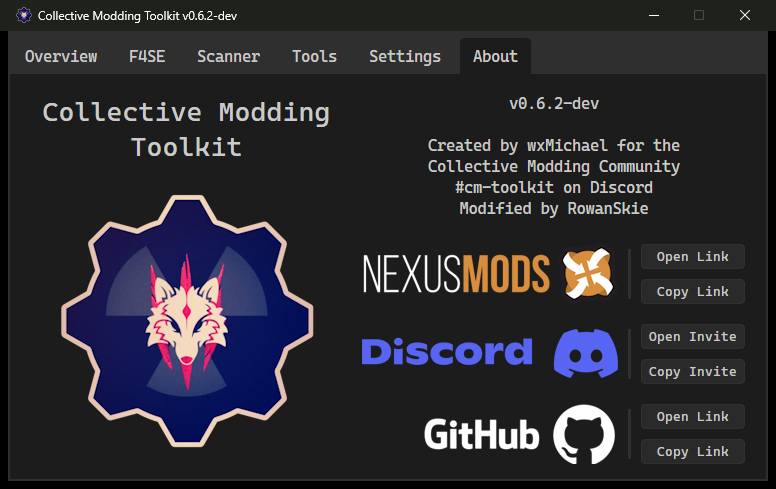
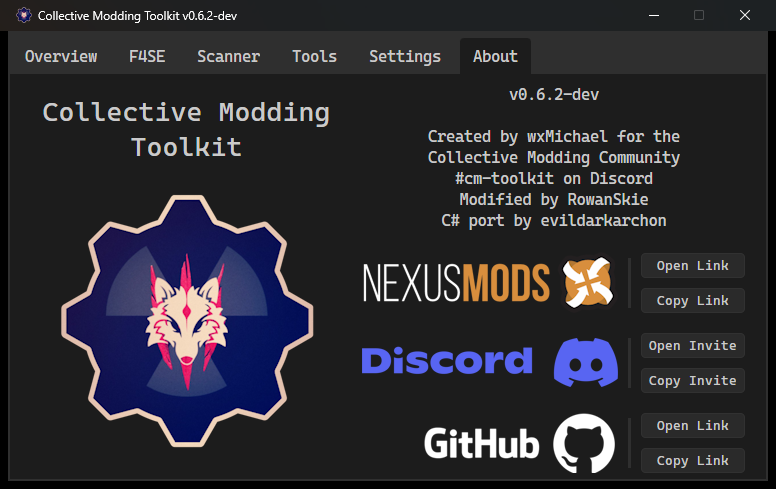
feat(about): credit the C# port (#69)
Add "C# port by evildarkarchon" under "Modified by RowanSkie", which
stays. This deliberately changes ABOUT-1. It is recorded as Deviation 69
on the about-tab scenario (golden.port.json) and on the hand-written
layout tests.

The seventh line makes the right-hand column 407 px, Tk's page height,
but the port's tab page is 404 px. So the gap under the credits shrinks
from 10 to 7 px, and the column fills the page exactly instead of the
GitHub row hanging over the bottom edge. A new test pins the fit and the
link rows' spacing.

ADR-0006, the glossary, parity/README.md and the Deviation docstrings
now say that a deliberate non-bug change uses the same mechanism under
its own issue number. The about/ screenshot pair is re-captured at
100 % DPI; tk.png changed only because it was re-captured.

diff --git a/dotnet/tests/CMToolkit.Tests/App/AboutTabTests.cs b/dotnet/tests/CMToolkit.Tests/App/AboutTabTests.cs
@@ -6,6 +6,7 @@ using Avalonia.Threading;
 using CMToolkit.App.Runtime;
 using CMToolkit.App.Tabs;
 using CMToolkit.App.Views;
+using CMToolkit.Tests.Parity;
 using CMToolkit.Tests.Support;
 using Microsoft.Extensions.Time.Testing;
 
@@ -47,17 +48,18 @@ public sealed class AboutTabTests
     }
 
     [AvaloniaFact]
-    [Trait("Parity", "ABOUT-1")]
+    [Trait("Parity", "ABOUT-1"), Deviation(69, "Deliberate, not a bug fix: the credits gain a seventh line, C# port by evildarkarchon, under Modified by RowanSkie.")]
     public void The_rows_share_the_spare_height_as_tk_did()
     {
         var (_, page, _, _) = Show();
         var title = page.Children.OfType<TextBlock>().Single();
         var icon = page.Children.OfType<Border>().Single();
 
-        // Rows of 90 and 276 px, both weight 1, under a 386 px text frame spanning them: 100/286 after the span, then
-        // the spare height shared. On Tk's 407 px page that put the title at y 20 and the icon row at 110.
-        var spare = page.Bounds.Height - 386;
-        var row0 = 100 + Math.Truncate(spare / 2);
+        // Rows of 90 and 276 px, both weight 1, under a 404 px text frame spanning them: 109/295 after the span, then
+        // the spare height shared. The reference's six-line frame was 386 px (100/286), which on Tk's 407 px page put
+        // the title at y 20 and the icon row at 110; the credit's line (#69) takes up that spare height.
+        var spare = page.Bounds.Height - 404;
+        var row0 = 109 + Math.Truncate(spare / 2);
         Assert.Equal((row0 - 70) / 2, At(title, page).Y, 0.5);
         Assert.Equal(row0, At(icon, page).Y);
         Assert.Equal(page.Bounds.Height - row0 - 20, icon.Bounds.Height);
@@ -65,24 +67,56 @@ public sealed class AboutTabTests
     }
 
     [AvaloniaFact]
-    [Trait("Parity", "ABOUT-1")]
+    [Trait("Parity", "ABOUT-1"), Deviation(69, "Deliberate, not a bug fix: the credits gain a seventh line, C# port by evildarkarchon, under Modified by RowanSkie.")]
     public void The_text_column_sits_20px_from_the_right_with_right_aligned_link_rows()
     {
         var (_, page, _, _) = Show();
         var about = page.Children.OfType<StackPanel>().Single();
         var rows = LinkRows(page);
 
-        // Tk: a 383x386 frame, centred vertically, 20 px in from the right edge.
-        Assert.Equal(new Size(383, 386), about.Bounds.Size);
+        // Tk: a 383x386 frame, centred vertically, 20 px in from the right edge. The credit's line (#69) adds 21 px and
+        // the gap under the text gives back 3, so the frame fills the port's 404 px page (dotnet/README.md).
+        // Desired as well as arranged: a taller frame would still be arranged at the page's height, overhanging it.
+        Assert.Equal(404, about.DesiredSize.Height);
+        Assert.Equal(new Size(383, 404), about.Bounds.Size);
         Assert.Equal(page.Bounds.Width - 20, At(about, page).X + about.Bounds.Width);
         Assert.Equal(["images/logo-nexusmods.png", "images/logo-discord.png", "images/logo-github.png"],
             rows.Select(r => r.Children.OfType<AssetImage>().Single().AssetPath));
         Assert.All(rows, r => Assert.Equal(70, r.Bounds.Height));
         Assert.All(rows, r => Assert.Equal(about.Bounds.Width, At(r, about).X + r.Bounds.Width));
-        // The 16 px text: six 21 px lines, 10 px from the frame's top.
+        // The 16 px text: seven 21 px lines, 10 px from the frame's top. The new line is shorter than the widest one,
+        // so the width is the reference's.
         var text = about.Children.OfType<TextBlock>().Single();
-        Assert.Equal(new Size(252, 126), text.Bounds.Size);
+        Assert.Equal(new Size(252, 147), text.Bounds.Size);
         Assert.Equal(10, At(text, about).Y);
+    }
+
+    [AvaloniaFact]
+    [Trait("Parity", "ABOUT-1"), Deviation(69, "Deliberate, not a bug fix: the credits gain a seventh line, C# port by evildarkarchon, under Modified by RowanSkie.")]
+    public void The_credited_text_column_fits_the_page_beside_the_icon()
+    {
+        var (_, page, _, _) = Show();
+        var about = page.Children.OfType<StackPanel>().Single();
+        var icon = page.Children.OfType<Border>().Single();
+        var rows = LinkRows(page);
+
+        // The seventh line would make the frame as tall as Tk's 407 px page, 3 px more than the port's 404 px one at
+        // the shell's 760x450. Trimming the gap under the text to 7 px makes it fit exactly: the frame fills the page
+        // right of the icon, and the link rows keep Tk's 10 px spacing down to the page's bottom edge.
+        Assert.Equal(0, At(about, page).Y);
+        Assert.True(At(about, page).X >= At(icon, page).X + icon.Bounds.Width,
+            $"The text column (x {At(about, page).X}) overlaps the icon (right edge {At(icon, page).X + icon.Bounds.Width}).");
+        var text = about.Children.OfType<TextBlock>().Single();
+        Assert.Equal(10, At(text, page).Y);
+        var top = At(text, page).Y + text.Bounds.Height + 7;
+        foreach (var row in rows)
+        {
+            // pady=(10, 0), so each row starts 10 px below what is above it.
+            Assert.Equal(top + 10, At(row, page).Y);
+            top = At(row, page).Y + row.Bounds.Height;
+        }
+
+        Assert.Equal(page.Bounds.Height, top);
     }
 
     [AvaloniaFact]

diff --git a/dotnet/src/CMToolkit.App/Tabs/AboutTab.cs b/dotnet/src/CMToolkit.App/Tabs/AboutTab.cs
@@ -51,9 +51,12 @@ public sealed class AboutTab : TabPage
         }
     }
 
-    /// <summary>The version and credits, centred under one another.</summary>
+    /// <summary>
+    /// The version and credits, centred under one another. The last line credits this port, a deliberate change to
+    /// the reference's text (deviation #69); <see cref="BuildContent"/> trims the gap under it so the column still fits.
+    /// </summary>
     public static string Text =>
-        $"v{AppInfo.Version}\n\nCreated by wxMichael for the\nCollective Modding Community\n#cm-toolkit on Discord\nModified by RowanSkie";
+        $"v{AppInfo.Version}\n\nCreated by wxMichael for the\nCollective Modding Community\n#cm-toolkit on Discord\nModified by RowanSkie\nC# port by evildarkarchon";
 
     /// <inheritdoc/>
     protected internal override Control BuildContent()
@@ -84,12 +87,14 @@ public sealed class AboutTab : TabPage
             [Grid.RowProperty] = 1,
         };
 
+        // pady=10, except the gap under the text is 7: the credit's line (#69) made the frame 407 px, Tk's page height,
+        // and the port's page is 3 px shorter (dotnet/README.md), so without the trim the last link row would overhang.
         var text = new TextBlock
         {
             Text = Text,
             TextAlignment = TextAlignment.Center,
             HorizontalAlignment = HorizontalAlignment.Center,
-            Margin = new Thickness(0, 10),
+            Margin = new Thickness(0, 10, 0, 7),
         };
 
         // frame_about_text: not sticky, so centred in the two rows it spans; padx=(0, 20).

diff --git a/dotnet/tests/CMToolkit.Tests/Parity/DeviationAttribute.cs b/dotnet/tests/CMToolkit.Tests/Parity/DeviationAttribute.cs
@@ -5,7 +5,8 @@ namespace CMToolkit.Tests.Parity;
 /// <summary>
 /// Marks a test that asserts the port's fix of a reference bug instead of the Reference Implementation's behaviour: a
 /// documented Deviation from Behaviour Parity (ADR-0006). Put it beside the test's <c>Trait("Parity", …)</c>, which
-/// stays, with the <c>bug</c> issue number and one sentence saying what the port does instead.
+/// stays, with the <c>bug</c> issue number and one sentence saying what the port does instead. A deliberate change
+/// that isn't a bug fix (#69) uses its own issue number, and its sentence says it is deliberate.
 /// </summary>
 /// <remarks>
 /// <para>
@@ -22,7 +23,9 @@ namespace CMToolkit.Tests.Parity;
 public sealed class DeviationAttribute : Attribute, ITraitAttribute
 {
     /// <summary>Declares that the test asserts the fix for <paramref name="bug"/>.</summary>
-    /// <param name="bug">The <c>bug</c> issue number on the fork, for example <c>77</c> for #77.</param>
+    /// <param name="bug">
+    /// The <c>bug</c> issue number on the fork, for example <c>77</c> for #77, or a deliberate change's own issue number.
+    /// </param>
     /// <param name="reason">What the port does instead of the reference, in one sentence.</param>
     /// <exception cref="ArgumentOutOfRangeException"><paramref name="bug"/> isn't positive.</exception>
     /// <exception cref="ArgumentException"><paramref name="reason"/> is blank.</exception>

diff --git a/dotnet/tools/CMToolkit.ParityCoverage/CoverageCheck.cs b/dotnet/tools/CMToolkit.ParityCoverage/CoverageCheck.cs
@@ -75,9 +75,9 @@ public sealed record Proof(string Id, ProofKind Kind, string Location)
 
 /// <summary>
 /// One documented Deviation from Behaviour Parity (ADR-0006): a place where the port fixes a reference bug instead of
-/// reproducing it.
+/// reproducing it, or makes a deliberate pre-release change (#69).
 /// </summary>
-/// <param name="Bug">The <c>bug</c> issue number on the fork.</param>
+/// <param name="Bug">The <c>bug</c> issue number on the fork, or the deliberate change's own issue number.</param>
 /// <param name="Reason">
 /// What the port does instead. For a test it is the string literal's text as written in the source, escapes included.
 /// </param>

diff --git a/GLOSSARY.md b/GLOSSARY.md
@@ -47,7 +47,7 @@ The C# app producing the same observable results as the Reference Implementation
 _Avoid_: feature parity (too loose — parity here covers behaviour, not just features)
 
 **Deviation**:
-A deliberate, documented departure from Behaviour Parity where the port fixes one reference bug, named by its bug issue and a one-line reason. The reference's recorded behaviour is kept beside it; the Deviation only overrides what the port must do.
+A deliberate, documented departure from Behaviour Parity where the port fixes one reference bug, named by its bug issue and a one-line reason. The reference's recorded behaviour is kept beside it; the Deviation only overrides what the port must do. A deliberate pre-release change that isn't a bug fix (the About tab's port credit, #69) is recorded the same way, under its own issue number.
 _Avoid_: divergence, regression (both suggest an accident), exemption (that is a checklist ID left unported, not changed behaviour)
 
 **Parity Inventory**:

diff --git a/docs/adr/0006-port-fixes-reference-bugs-as-deviations.md b/docs/adr/0006-port-fixes-reference-bugs-as-deviations.md
@@ -20,3 +20,4 @@ ADR-0004's proof model is unchanged. The reference recording stays the source of
 - Behaviour Parity now means parity except where a Deviation says otherwise. A scenario with a Deviation still proves its Parity Inventory IDs, and those IDs (the `B-` ones included) now prove the fixed behaviour.
 - After Cutover the driver is gone, so `golden.json` and `golden.port.json` both become plain regression fixtures. The pair still records what the reference did and what the port does instead.
 - Failure Outcomes that come from a bug are no longer automatically part of parity. Once a Deviation fixes one, the port's outcome is the one in the port golden.
+- A deliberate pre-release change that isn't a bug fix goes through the same mechanism, under its own issue number in place of a bug's, with a reason that says it is deliberate. The cutover plan (#64) decided one: the About tab's port credit (#69).

diff --git a/dotnet/README.md b/dotnet/README.md
@@ -91,6 +91,9 @@ nothing.
   sits 2 px right and 1 px lower, and anything anchored to the page's right or bottom edge 2 px further left or up.
   On the Tools tab the 4 px narrower page also leaves the columns 1-2 px narrower. See
   [`parity/screenshots/tools/`](../parity/screenshots/tools/), `settings/` and `about/`.
+- The About pair shows the port credit (#69, a deliberate Deviation): a seventh line, `C# port by evildarkarchon`,
+  under the credits. That makes the right-hand column 407 px, Tk's page height, so the gap under the text is 7 px
+  where Tk's is 10, and the column fills the 404 px page with the link rows 9 px lower than Tk's.
 - The About tab's 20 pt title measures 289 px where Tk's is 288, so it sits half a pixel off centre. The Settings
   tab's Log Level frame is 86 px wide where Tk's is 88: Tk keeps 8 px either side of a labelframe's title where the
   GroupBox theme keeps 7.

diff --git a/parity/README.md b/parity/README.md
@@ -198,6 +198,10 @@ search for it to find what a fix flips.
 4. Run the replaying test (red until the fix lands, then green), `record.py --check` (the scenario reads `same` and is
    marked `port deviates: #<n>`), and the coverage check.
 
+A deliberate pre-release change that isn't a bug fix (the About tab's port credit,
+[#69](https://github.com/evildarkarchon/Collective-Modding-Toolkit/issues/69)) is a Deviation too. Its `bug` is the
+change's own issue number, and its reason says it is deliberate.
+
 If the fix needs a new input to show the corrected behaviour, add a **new** scenario as usual. It is recorded from the
 reference like any other, then flipped as above.
 
